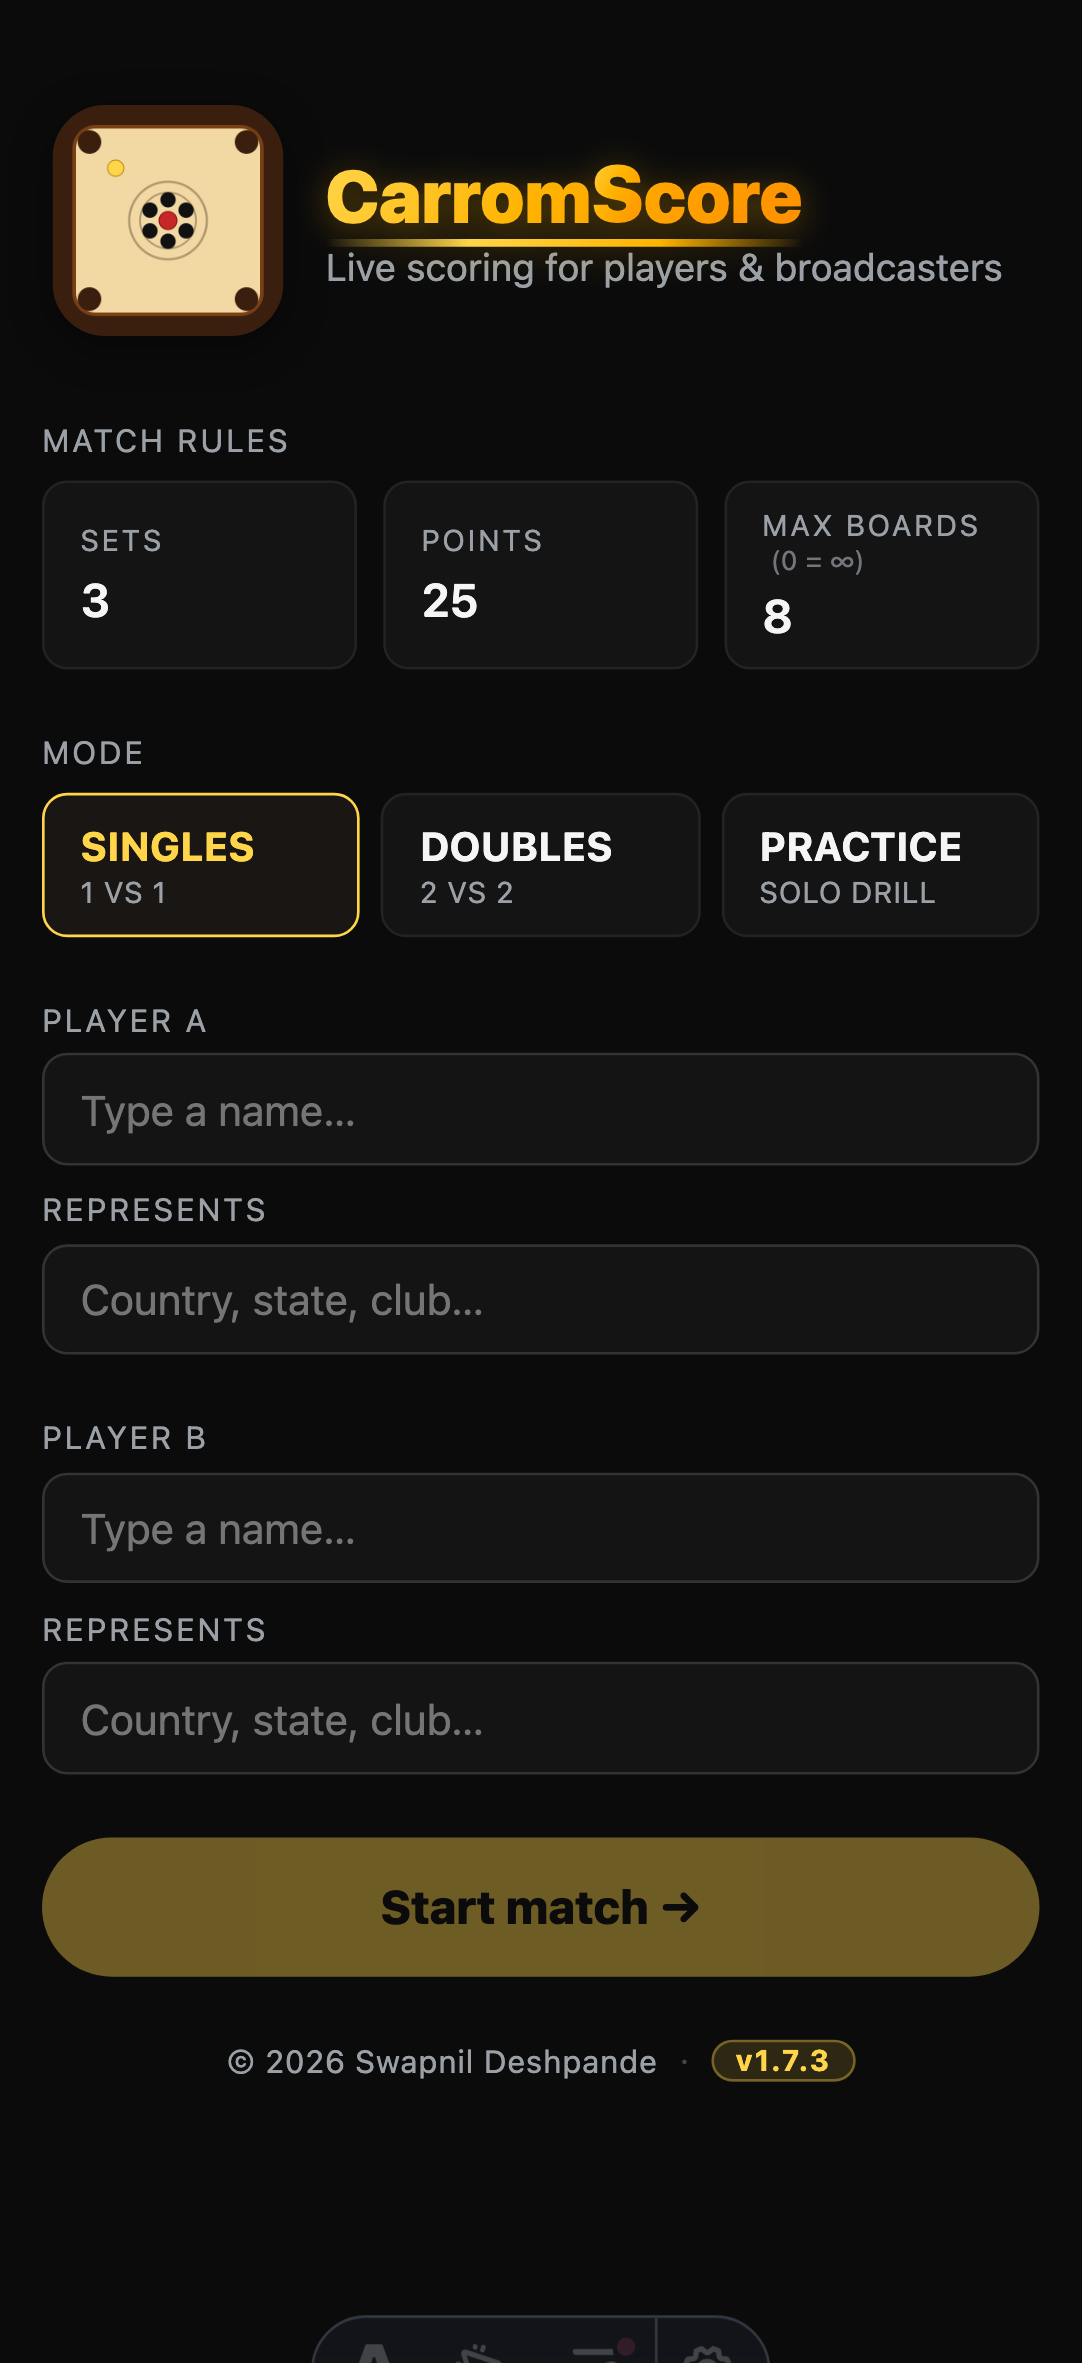
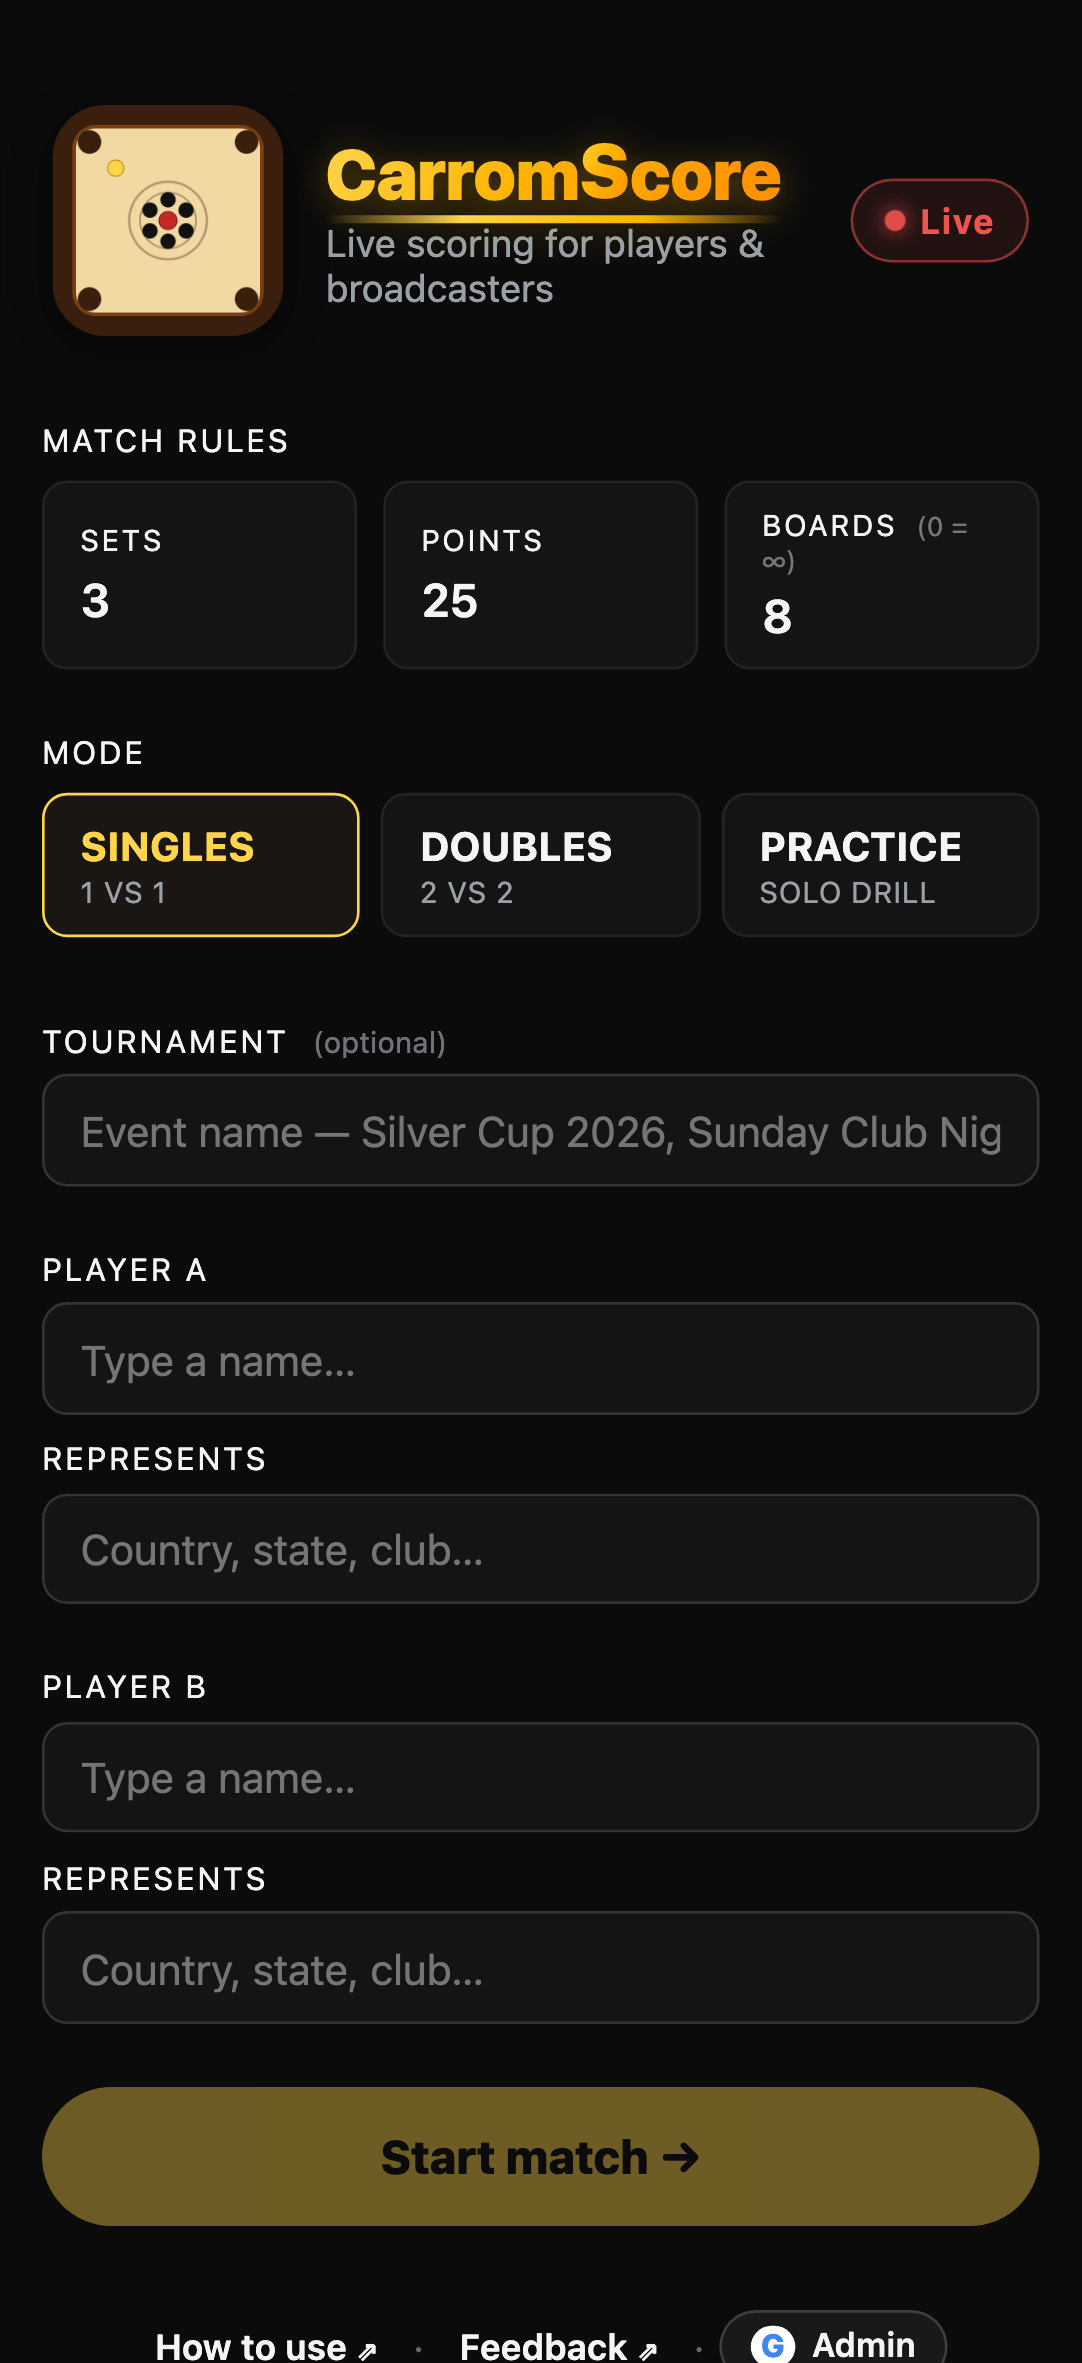
Docs: refresh screenshots for v2.0 + add match-end lockout capture
Rerun scripts/screenshots.ts against the current beta build:
15 refreshed shots reflect v2 visuals (BOARD 0-indexed, tournament tag
field, +Q suffix in recap, medal treatment, practice per-set layout,
transparent overlay + composited variants). Add a new 33-match-end-
lockout.png showing the "score is locked" toast fired by post-End
positive-delta taps.

Script fixes: queen coin now uses a real click() instead of dispatched
PointerEvents (the coin's onclick handler ignores pointer events),
End Match flow satisfies the pre-boundary queen guard at every SET+
and BOARD+ transition, and the End sequence runs in a fresh context to
avoid stale state from the mid-set / lockout captures.

Two shots skipped (12-share-popup, 32-practice-overlay) because the
Share buttons and practice overlay both live on the /live/ lobby's
match sheet, which requires a real Firebase live record to open. The
existing 12-share-popup.png is retained; 32 remains on the manual-
capture list in docs/screenshots-todo.md.

diff --git a/scripts/screenshots.ts b/scripts/screenshots.ts
@@ -60,6 +60,11 @@ async function main() {
   await p1.locator('input[placeholder="Country, state, club…"]').first().fill(NOTE_A);
   await p1.locator('input[placeholder="Type a name…"]').nth(1).fill(PLAYER_B);
   await p1.locator('input[placeholder="Country, state, club…"]').nth(1).fill(NOTE_B);
+  // v2: fill the Tournament tag field too
+  const tournamentInput = p1.locator('label.tournament-input input');
+  if (await tournamentInput.count()) {
+    await tournamentInput.fill('Silver Cup 2026');
+  }
   await p1.locator('body').click({ position: { x: 10, y: 10 }, force: true });  // dismiss any suggestion
   await p1.waitForTimeout(200);
   await p1.screenshot({ path: `${OUT}/02-setup-filled.png` });
@@ -102,37 +107,87 @@ async function main() {
           await new Promise((r) => setTimeout(r, 4));
         }
       };
-      await tap('.col.side-a.pts', 12);
-      await tap('.col.side-b.pts', 8);
-      await tap('.col.mid.brd', 4);
+      // v2: BOARD is 0-indexed. Complete two boards by advancing BOARD +1
+      // twice, marking a queen holder before each advance (guard requires it).
+      // Then leave the third board mid-play: A 12, B 8, queen on A.
+      // Queen coin uses onclick (not use:swipeAdjust like the score columns),
+      // so it needs a real .click() — dispatched PointerEvents are ignored.
+      const tapCoin = async () => {
+        const c = document.querySelector('.head-side .coin-btn');
+        if (c && !c.classList.contains('coin-red')) {
+          c.click();
+          await new Promise((r) => setTimeout(r, 40));
+        }
+      };
+      // Board 1 → mark queen → BOARD +1
+      await tap('.col.side-a.pts', 4);
+      await tap('.col.side-b.pts', 3);
+      await tapCoin();
+      await tap('.col.mid.brd', 1);
+      // Board 2 → mark queen → BOARD +1
+      await tap('.col.side-a.pts', 5);
+      await tap('.col.side-b.pts', 2);
+      await tapCoin();
+      await tap('.col.mid.brd', 1);
+      // Board 3 mid-play: A 12 (already at 9, add 3), B 8 (already at 5, add 3), queen on A.
+      await tap('.col.side-a.pts', 3);
+      await tap('.col.side-b.pts', 3);
+      await tapCoin();
     })();
   `;
-  // Simulate a mid-set: A 12, B 8, board 4.
+  // Simulate a mid-set: A 12, B 8, queen on A, 2 boards done + one in progress.
   await p2.evaluate(BUMP_SCRIPT);
   await p2.waitForTimeout(200);
   await p2.screenshot({ path: `${OUT}/04-score-midset.png` });
   console.log('04-score-midset.png');
 
-  // Push side A from 12 to 22 to fire the queen-lockout ticker.
+  // 05: queen-guard toast. Return queen to table (both coins grey), then
+  // add fresh points and tap BOARD +1 — the app blocks with the guard toast.
   await p2.evaluate(`
     (async () => {
-      const btn = document.querySelector('.col.side-a.pts');
-      for (let i = 0; i < 10; i += 1) {
-        btn.dispatchEvent(new PointerEvent('pointerdown', { bubbles: true, isPrimary: true, clientX: 0, clientY: 0 }));
-        btn.dispatchEvent(new PointerEvent('pointerup', { bubbles: true, isPrimary: true, clientX: 0, clientY: 0 }));
-        await new Promise((r) => setTimeout(r, 4));
+      // Un-toggle the currently-red coin so queen is null.
+      const red = document.querySelector('.head-side .coin-btn.coin-red');
+      if (red) {
+        red.click();
+        await new Promise((r) => setTimeout(r, 40));
       }
+      // Add a couple of fresh points so pointsAtBoardStart < current, otherwise
+      // BOARD +1 would simply skip the guard (no in-progress score to snapshot).
+      const bumpPoints = (sel, n) => {
+        const btn = document.querySelector(sel);
+        for (let i = 0; i < n; i += 1) {
+          btn.dispatchEvent(new PointerEvent('pointerdown', { bubbles: true, isPrimary: true, clientX: 0, clientY: 0 }));
+          btn.dispatchEvent(new PointerEvent('pointerup', { bubbles: true, isPrimary: true, clientX: 0, clientY: 0 }));
+        }
+      };
+      bumpPoints('.col.side-a.pts', 2);
+      bumpPoints('.col.side-b.pts', 1);
+      await new Promise((r) => setTimeout(r, 60));
+      // Fire BOARD +1 — guard should surface the toast.
+      const brd = document.querySelector('.col.mid.brd');
+      brd.dispatchEvent(new PointerEvent('pointerdown', { bubbles: true, isPrimary: true, clientX: 0, clientY: 0 }));
+      brd.dispatchEvent(new PointerEvent('pointerup', { bubbles: true, isPrimary: true, clientX: 0, clientY: 0 }));
     })();
   `);
-  await p2.waitForTimeout(200);
+  await p2.waitForTimeout(300);
   await p2.screenshot({ path: `${OUT}/05-score-queen-lockout.png` });
   console.log('05-score-queen-lockout.png');
 
-  // End match → fireworks popup. Sequence matters: bumping SET zeroes both
-  // POINTS (adjustSets resets so the next set starts fresh), so we bump
-  // sets FIRST, then bump points to a realistic decider score. That gives
-  // the popup a meaningful "Final board 25-18".
-  await p2.evaluate(`
+  // End match → recap popup. Fresh score-screen context so p2's accumulated
+  // state (from shots 04/05) doesn't fight the guards. v2 requires a queen
+  // holder before every SET+ / BOARD+ boundary that has fresh points, and
+  // blocks positive deltas once matchResult is set. So we replay the whole
+  // sequence marking queen before each boundary.
+  await tv.close();
+  const tvEnd = await browser.newContext({
+    viewport: LANDSCAPE,
+    deviceScaleFactor: 2,
+    reducedMotion: 'reduce',
+  });
+  const p2e = await tvEnd.newPage();
+  await p2e.goto(SCORE_URL, { waitUntil: 'networkidle' });
+  await p2e.waitForTimeout(400);
+  await p2e.evaluate(`
     (async () => {
       const tap = async (sel, n) => {
         const btn = document.querySelector(sel);
@@ -142,26 +197,45 @@ async function main() {
           await new Promise((r) => setTimeout(r, 4));
         }
       };
-      // Simulate 2-1 in sets, then a decider set that ended 25-18.
-      await tap('.col.side-a.set', 2);
+      const tapQueen = async () => {
+        const c = document.querySelector('.head-side .coin-btn');
+        if (c && !c.classList.contains('coin-red')) {
+          c.click();
+          await new Promise((r) => setTimeout(r, 40));
+        }
+      };
+      // Set 1 (A wins 25-15): 3 boards, then SET+1 A.
+      await tap('.col.side-a.pts', 8); await tap('.col.side-b.pts', 5); await tapQueen(); await tap('.col.mid.brd', 1);
+      await tap('.col.side-a.pts', 9); await tap('.col.side-b.pts', 5); await tapQueen(); await tap('.col.mid.brd', 1);
+      await tap('.col.side-a.pts', 8); await tap('.col.side-b.pts', 5); await tapQueen();
+      await tap('.col.side-a.set', 1);
+      // Set 2 (B wins 25-20): 3 boards, then SET+1 B.
+      await tap('.col.side-a.pts', 7); await tap('.col.side-b.pts', 8); await tapQueen(); await tap('.col.mid.brd', 1);
+      await tap('.col.side-a.pts', 6); await tap('.col.side-b.pts', 9); await tapQueen(); await tap('.col.mid.brd', 1);
+      await tap('.col.side-a.pts', 7); await tap('.col.side-b.pts', 8); await tapQueen();
       await tap('.col.side-b.set', 1);
-      await tap('.col.side-a.pts', 25);
-      await tap('.col.side-b.pts', 18);
-      await tap('.col.mid.brd', 7);
+      // Set 3 (decider — A ahead 25-18 mid-board when End is tapped).
+      await tap('.col.side-a.pts', 9); await tap('.col.side-b.pts', 6); await tapQueen(); await tap('.col.mid.brd', 1);
+      await tap('.col.side-a.pts', 8); await tap('.col.side-b.pts', 7); await tapQueen(); await tap('.col.mid.brd', 1);
+      await tap('.col.side-a.pts', 8); await tap('.col.side-b.pts', 5); await tapQueen();
     })();
   `);
-  await p2.locator('.foot-btn.endm').click({ force: true });
-  await p2.waitForTimeout(400);
-  await p2.screenshot({ path: `${OUT}/06-end-match-popup.png` });
+  await p2e.waitForTimeout(200);
+  await p2e.locator('.foot-btn.endm').click({ force: true });
+  await p2e.waitForTimeout(400);
+  // v2 flow: End → winner dialog first. Click "View scorecard" → scorecard.
+  await p2e.locator('.winner-dialog .confirm-big').click({ force: true });
+  await p2e.waitForTimeout(400);
+  await p2e.screenshot({ path: `${OUT}/06-end-match-popup.png` });
   console.log('06-end-match-popup.png');
 
-  // Dismiss the popup → show the twin-medal treatment on the name pills.
-  await p2.locator('.confirm-big').click({ force: true });
-  await p2.waitForTimeout(200);
-  await p2.screenshot({ path: `${OUT}/07-end-match-medals.png` });
+  // Close the scorecard popup → show the twin-medal treatment on the name pills.
+  await p2e.locator('.scorecard-dialog .dialog-close').click({ force: true });
+  await p2e.waitForTimeout(300);
+  await p2e.screenshot({ path: `${OUT}/07-end-match-medals.png` });
   console.log('07-end-match-medals.png');
 
-  await tv.close();
+  await tvEnd.close();
 
   /*
    * Practice mode shots. Solo drill flow: setup → single-set scoreboard
@@ -274,22 +348,12 @@ async function main() {
   await tv3.close();
 
   /*
-   * 12 Share URL popup. Score screen (singles), tap Share URL button.
-   * Shows both URL rows (overlay ready, live spectator coming soon).
+   * 12 Share popup. In v2 the two share buttons (spectator + OBS) live
+   * on the /live/ lobby match-sheet dialog, not the score screen. That
+   * needs a live Firebase record to open. Skipping headless capture —
+   * keep the existing 12-share-popup.png committed to the repo.
    */
-  const tv4 = await browser.newContext({
-    viewport: LANDSCAPE,
-    deviceScaleFactor: 2,
-    reducedMotion: 'reduce',
-  });
-  const p6 = await tv4.newPage();
-  await p6.goto(SCORE_URL, { waitUntil: 'networkidle' });
-  await p6.waitForTimeout(400);
-  await p6.locator('.foot-btn.share').click({ force: true });
-  await p6.waitForTimeout(300);
-  await p6.screenshot({ path: `${OUT}/12-share-popup.png` });
-  console.log('12-share-popup.png');
-  await tv4.close();
+  console.log('12-share-popup.png (skipped — needs live match; existing PNG kept)');
 
   /*
    * 13 Overlay bare (1920×1080 broadcast canvas). Mid-match state seeded
@@ -362,6 +426,89 @@ async function main() {
   await p7.screenshot({ path: `${OUT}/15-overlay-endgame.png` });
   console.log('15-overlay-endgame.png');
   await stream.close();
+
+  /*
+   * 16 Feedback popup on the home footer. Portrait phone.
+   */
+  const phoneFb = await browser.newContext({
+    ...devices['Pixel 7'],
+    viewport: PORTRAIT,
+    reducedMotion: 'reduce',
+  });
+  const p8 = await phoneFb.newPage();
+  await p8.goto(BASE + '/', { waitUntil: 'networkidle' });
+  await p8.waitForTimeout(400);
+  await p8.locator('a.foot-link', { hasText: 'Feedback' }).click({ force: true });
+  await p8.waitForTimeout(300);
+  await p8.screenshot({ path: `${OUT}/16-feedback-popup.png` });
+  console.log('16-feedback-popup.png');
+  await phoneFb.close();
+
+  /*
+   * 32 Practice overlay lives inside LiveScoreboardView on the /live/?mid=…
+   * spectator URL — the /score/?view=overlay path just shows a "no live
+   * overlay" placeholder for practice. Capture requires a live Firebase
+   * record, so we skip it and let the file be captured manually from a
+   * running match later.
+   */
+  console.log('32-practice-overlay.png (skipped — needs live match)');
+
+  /*
+   * 33 Match-end lockout: after End is fired, tapping POINTS+ shows a toast.
+   * Landscape score screen.
+   */
+  const lockoutCtx = await browser.newContext({
+    viewport: LANDSCAPE,
+    deviceScaleFactor: 2,
+    reducedMotion: 'reduce',
+  });
+  const p10 = await lockoutCtx.newPage();
+  await p10.goto(SCORE_URL, { waitUntil: 'networkidle' });
+  await p10.waitForTimeout(400);
+  // Drive to a decided match and tap End. Real click() for the coin
+  // (onclick handler), PointerEvents for score columns (swipeAdjust).
+  await p10.evaluate(`
+    (async () => {
+      const tap = async (sel, n) => {
+        const btn = document.querySelector(sel);
+        for (let i = 0; i < n; i += 1) {
+          btn.dispatchEvent(new PointerEvent('pointerdown', { bubbles: true, isPrimary: true, clientX: 0, clientY: 0 }));
+          btn.dispatchEvent(new PointerEvent('pointerup', { bubbles: true, isPrimary: true, clientX: 0, clientY: 0 }));
+          await new Promise((r) => setTimeout(r, 4));
+        }
+      };
+      const tapQueen = async () => {
+        const c = document.querySelector('.head-side .coin-btn');
+        if (c && !c.classList.contains('coin-red')) {
+          c.click();
+          await new Promise((r) => setTimeout(r, 40));
+        }
+      };
+      // Set 1 (A wins): 2 boards, then SET+1 A.
+      await tap('.col.side-a.pts', 12); await tap('.col.side-b.pts', 8); await tapQueen(); await tap('.col.mid.brd', 1);
+      await tap('.col.side-a.pts', 13); await tap('.col.side-b.pts', 8); await tapQueen();
+      await tap('.col.side-a.set', 1);
+      // Set 2 (A wins again — 2-0 sweep): 2 boards + queen for the running one.
+      await tap('.col.side-a.pts', 14); await tap('.col.side-b.pts', 9); await tapQueen(); await tap('.col.mid.brd', 1);
+      await tap('.col.side-a.pts', 11); await tap('.col.side-b.pts', 9); await tapQueen();
+    })();
+  `);
+  await p10.locator('.foot-btn.endm').click({ force: true });
+  await p10.waitForTimeout(400);
+  // Dismiss winner dialog via its close ✕
+  const winnerClose = p10.locator('.winner-dialog .dialog-close');
+  if (await winnerClose.count()) await winnerClose.click({ force: true });
+  await p10.waitForTimeout(200);
+  // Also close scorecard if it appeared
+  const scorecardClose = p10.locator('.scorecard-dialog .dialog-close');
+  if (await scorecardClose.count()) await scorecardClose.click({ force: true });
+  await p10.waitForTimeout(200);
+  // Tap POINTS+ to trigger the lockout toast
+  await p10.locator('.col.side-a.pts').click({ force: true });
+  await p10.waitForTimeout(300);
+  await p10.screenshot({ path: `${OUT}/33-match-end-lockout.png` });
+  console.log('33-match-end-lockout.png');
+  await lockoutCtx.close();
 
   await browser.close();
   console.log(`Wrote screenshots to ${OUT}`);
